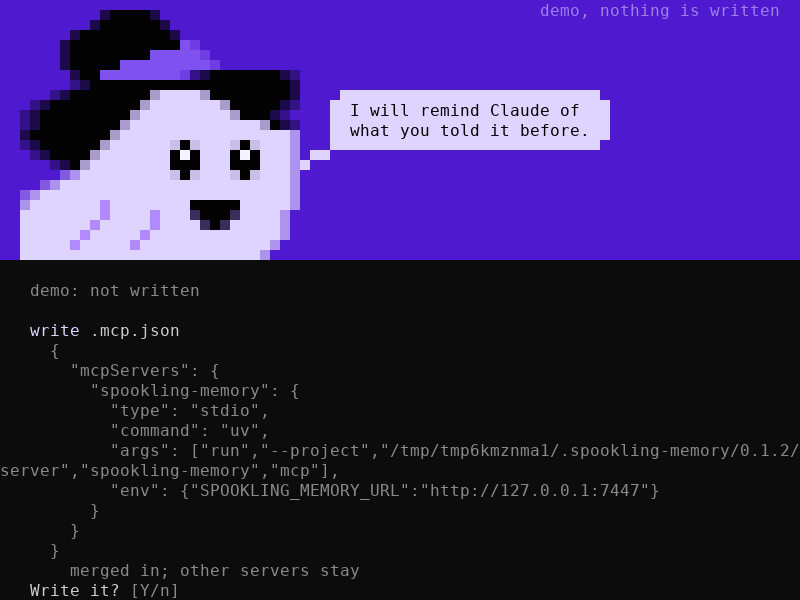
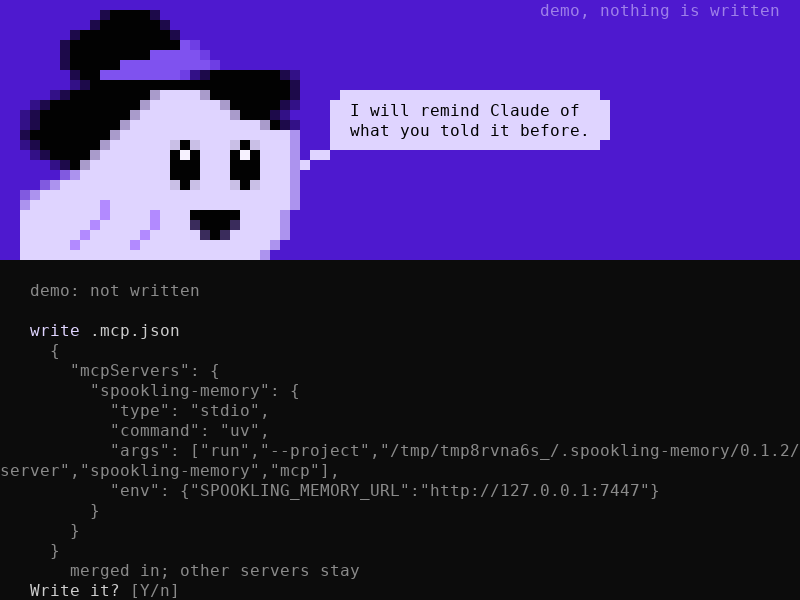
ghost v7: little eyes 3x5, the mouth two rows under

Changed region(s): [[0.1875, 0.27, 0.3438, 0.42], [0.5938, 0.72, 0.6875, 0.78]]

diff --git a/cli/src/ghost-sprite.js b/cli/src/ghost-sprite.js
@@ -222,13 +222,13 @@ export const SMALL = [
     'ba111111e444444g1g444g1g444c',
     '0ba1111e44444441h14441h1444c',
     '000ba1e44444444111444111444c',
-    '0000dc444444444g1g444g1g444c',
-    '00dc44444444444444444444444c',
+    '0000dc444444444111444111444c',
+    '00dc44444444444g1g444g1g444c',
     'dc4444444444444444444444444c',
-    'c44444443444444441111144444c',
-    '44444444344443444i111i4444c0',
-    '444444434444434444i1i44444c0',
-    '44444434444434444444444444c0',
+    'c44444443444444444444444444c',
+    '44444444344443444111114444c0',
+    '44444443444443444i111i4444c0',
+    '444444344444344444i1i44444c0',
     '4444434444434444444444444c00',
     '444444444444444444444444c000',
     '44444444444444444444444c0000',
@@ -250,13 +250,13 @@ export const SMALL = [
     'ba111111e444444g1g444g1g444c',
     '0ba1111e44444441h14441h1444c',
     '000ba1e44444444111444111444c',
-    '0000dc444444444g1g444g1g444c',
-    '00dc44444444444444444444444c',
+    '0000dc444444444111444111444c',
+    '00dc44444444444g1g444g1g444c',
     'dc4444443444444444444444444c',
-    'c44444443444434441111144444c',
-    '44444443444443444i111i4444c0',
-    '444444344444344444i1i44444c0',
-    '44444344444344444444444444c0',
+    'c44444443444434444444444444c',
+    '44444443444443444111114444c0',
+    '44444434444434444i111i4444c0',
+    '444443444443444444i1i44444c0',
     '4444444444444444444444444c00',
     '444444444444444444444444c000',
     '44444444444444444444444c0000',
@@ -278,13 +278,13 @@ export const SMALL = [
     'ba111111e444444g1g444g1g444c',
     '0ba1111e44444441h14441h1444c',
     '000ba1e44444444111444111444c',
-    '0000dc444444444g1g444g1g444c',
-    '00dc44444444444444444444444c',
+    '0000dc444444444111444111444c',
+    '00dc44444444444g1g444g1g444c',
     'dc4444444444444444444444444c',
-    'c44444443444444441111144444c',
-    '44444444344443444i111i4444c0',
-    '444444434444434444i1i44444c0',
-    '44444434444434444444444444c0',
+    'c44444443444444444444444444c',
+    '44444444344443444111114444c0',
+    '44444443444443444i111i4444c0',
+    '444444344444344444i1i44444c0',
     '4444434444434444444444444c00',
     '444444444444444444444444c000',
     '44444444444444444444444c0000',
@@ -306,13 +306,13 @@ export const SMALL = [
     'ba111111e444444g1g444g1g444c',
     '0ba1111e44444441h14441h1444c',
     '000ba1e44444444111444111444c',
-    '0000dc444444444g1g444g1g444c',
-    '00dc44444444444444444444444c',
+    '0000dc444444444111444111444c',
+    '00dc44444444444g1g444g1g444c',
     'dc4444444444444444444444444c',
-    'c44444444444444441111144444c',
-    '44444444344444444i111i4444c0',
-    '444444443444434444i1i44444c0',
-    '44444443444443444444444444c0',
+    'c44444444444444444444444444c',
+    '44444444344444444111114444c0',
+    '44444444344443444i111i4444c0',
+    '444444434444434444i1i44444c0',
     '4444443444443444444444444c00',
     '444443444443444444444444c000',
     '44444444444444444444444c0000',
